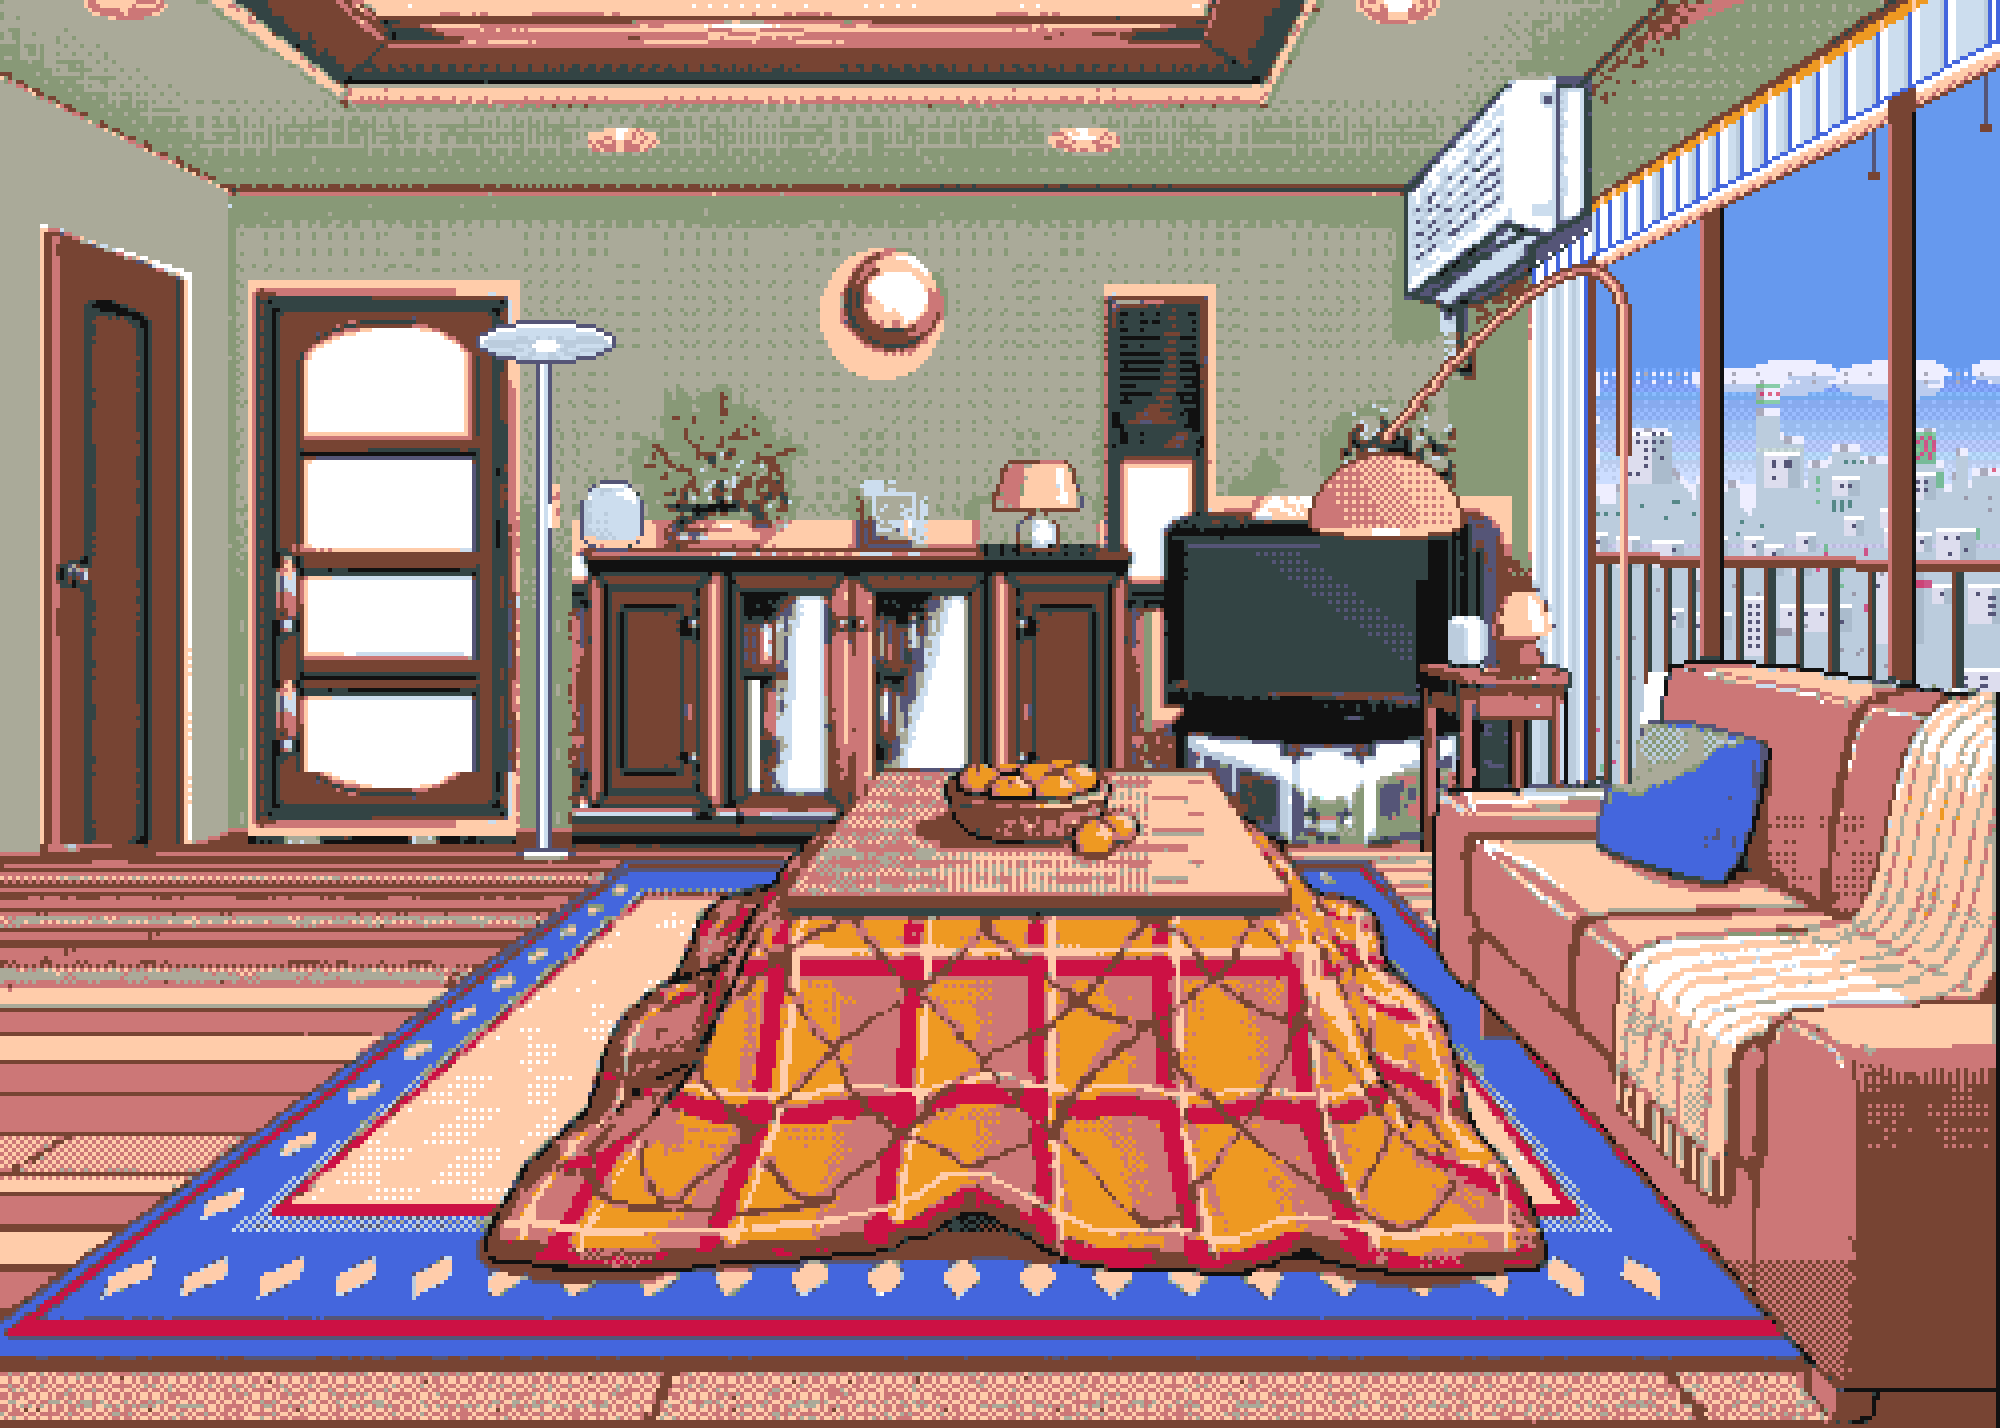
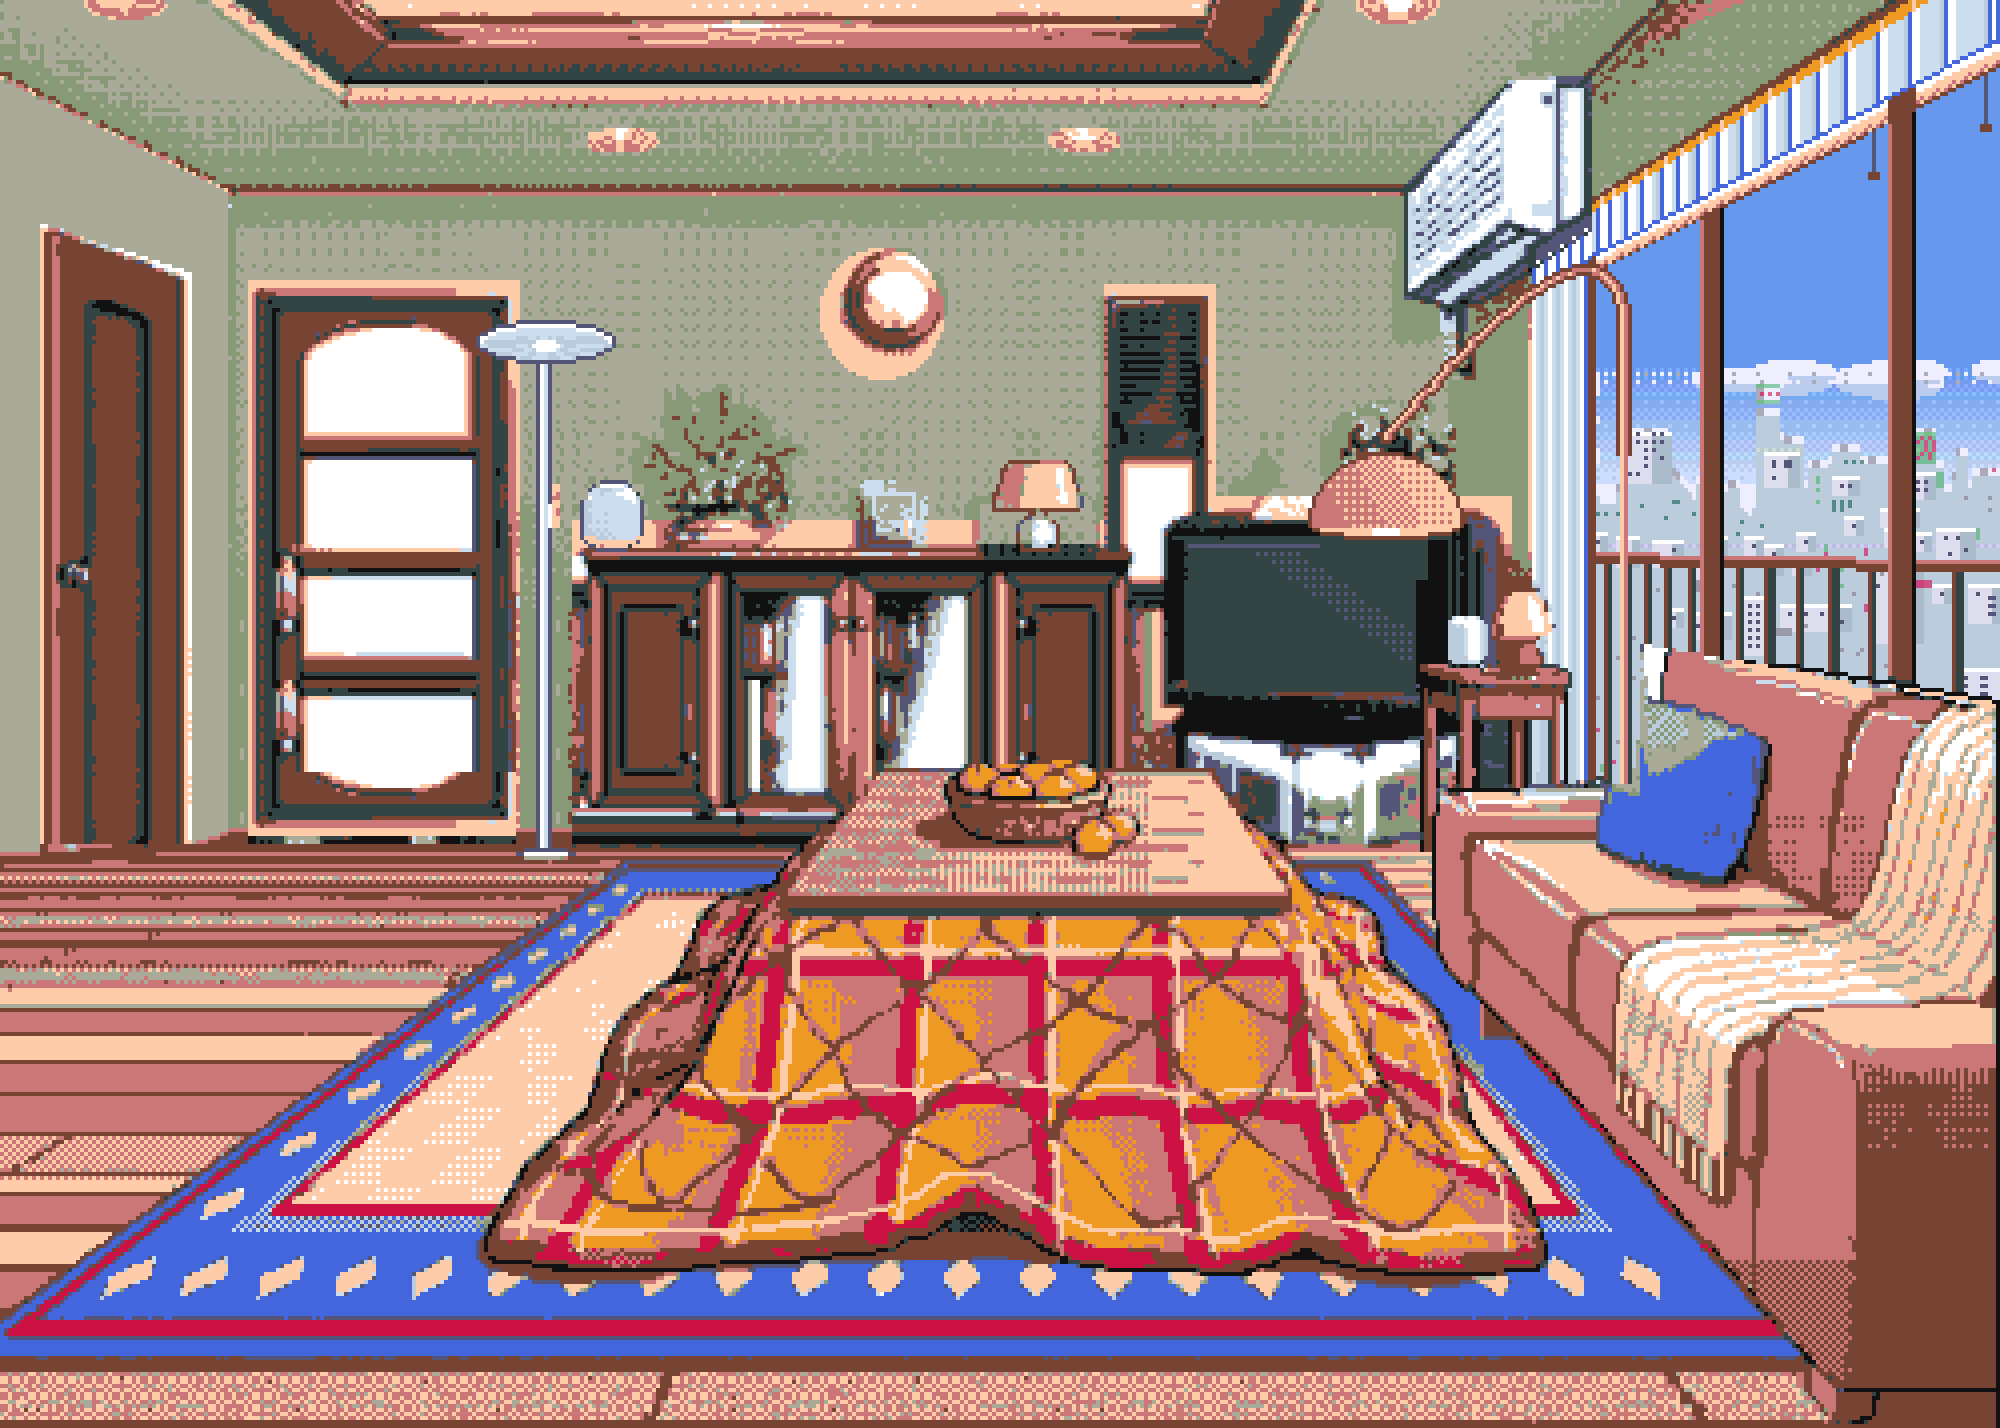
Living room: the couch's back runs to the VP (the redraw's ran flatter than the room: its far end up 7px, its near end down 3)

Changed region(s): [[0.93, 0.4622, 1.0, 0.7087], [0.806, 0.4314, 0.899, 0.5546], [0.837, 0.5854, 0.868, 0.6162]]

diff --git a/js/living-room-data.js b/js/living-room-data.js
@@ -103,9 +103,9 @@ window.HOUSE = window.HOUSE || {};
 
     R = window.ROOM = {
         dialogue: "living_room",
-        house: { base: "/img/living-room/", v: "9", hud: true },
+        house: { base: "/img/living-room/", v: "10", hud: true },
         seenKey: "pandaLivingRoomSeen",
-        scene: { src: "/img/living-room/noon@4x.png?v=9", width: 500, height: 357 },
+        scene: { src: "/img/living-room/noon@4x.png?v=10", width: 500, height: 357 },
 
         zOrder: ["lamp_dining", "lamp_window", "speaker_r", "kotatsu", "lamp_sun", "lamp_corner", "speaker_l",
                  "thermostat", "tv", "blind_living", "blind_dining", "door_bedroom", "door_outside"],
